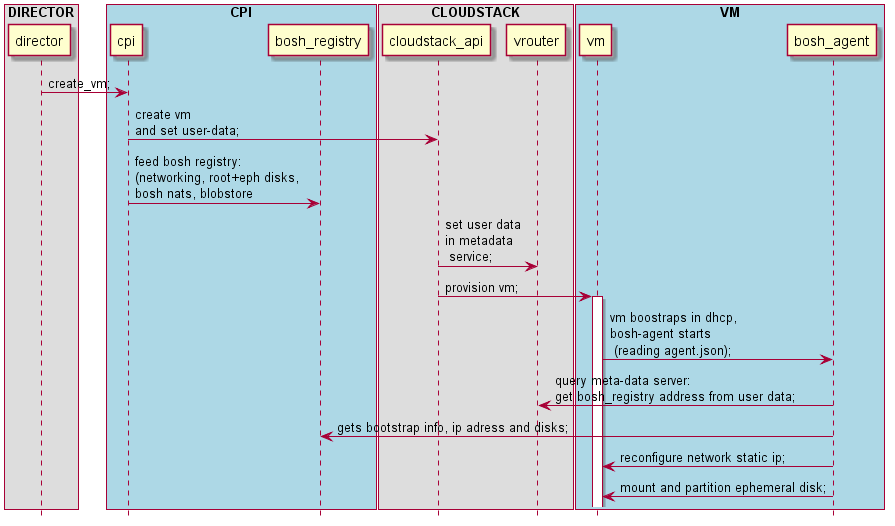
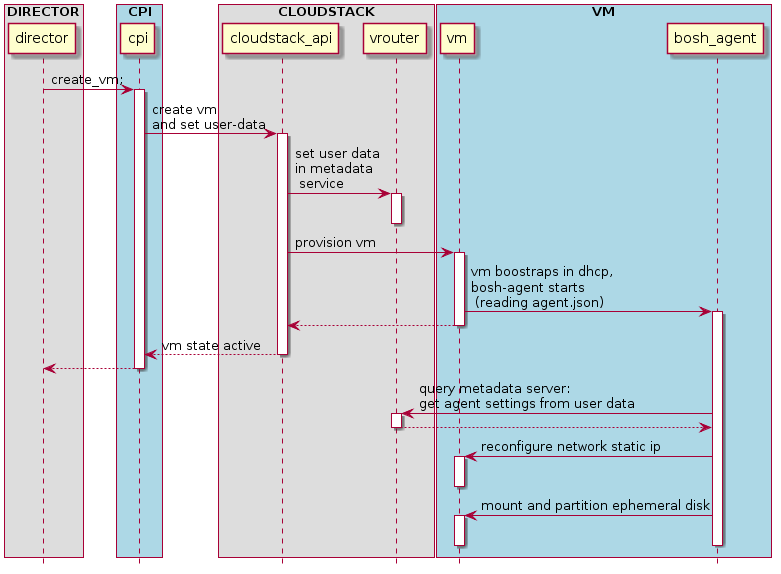
Update agent-cpi-interactions
* Update to CPI API V2

Fixes: #616

[#162326706](https://www.pivotaltracker.com/story/show/162326706)

diff --git a/content/agent-cpi-interactions.md b/content/agent-cpi-interactions.md
@@ -3,10 +3,12 @@ Here is an overview of the interactions between the CPI and the Agent on CloudSt
 * The CPI drives the IaaS and the Agent.
 * The Agent is a versatile process which configures the OS to leverage IaaS-provisioned resources (network interfaces, disks, etc.), and perform other BOSH tasks (job compilation, job instantiation, etc.)
 * The CPI asks the IaaS to instantiate VM template, VMs, volumes and possibly other constructs (floating IPs, security groups, connect LBs, etc.)
-* The Agent is initially driven by the CPI through the bosh-registry, and then by the Director through NATS-based messaging. The registry provides Director-side metadata to the Agent.
+* The director-to-agent communication happens through NATS-based messaging.
+* The initial configuration of the agent is done via the metadata server.
 
 !!! note
-    If the CPI, Director and stemcell all support API version V2, [then the use of Bosh registry will be avoided](cpi-api-v2.md#reference-table-based-on-each-component-version). In this case, the agent will be initialized with enough information to configure the VM and all communication with the director is performed through NATS server.
+    If either of CPI, Director or stemcell does not support [CPI API  version 2](cpi-api-v2.md#reference-table-based-on-each-component-version),
+    the BOSH registry is used to provide the information to configure the VM.
 
 ![image](images/cpi-interactions-overview.png)
 
@@ -31,7 +33,6 @@ Render it online http://plantuml.com/plantuml/ or from a private plantuml instan
   end box
   box "CPI" #LightBlue
 	participant cpi
-    participant bosh_registry
   end box
   box "CLOUDSTACK"
 	participant cloudstack_api
@@ -45,30 +46,52 @@ Render it online http://plantuml.com/plantuml/ or from a private plantuml instan
 
 
   director -> cpi : create_vm;
-  cpi -> cloudstack_api : create vm \nand set user-data;
-  cpi -> bosh_registry : feed bosh registry: \n(networking, root+eph disks, \nbosh nats, blobstore
-  cloudstack_api -> vrouter : set user data\nin metadata\n service;
-  cloudstack_api -> vm : provision vm;
-  activate vm
-  vm -> bosh_agent : vm boostraps in dhcp,\nbosh-agent starts \n (reading agent.json);
-  bosh_agent -> vrouter : query metadata server:\nget bosh_registry address from user data;
-  bosh_agent -> bosh_registry : gets bootstrap info, ip adress and disks;
-  bosh_agent -> vm : reconfigure network static ip;
-  bosh_agent -> vm : mount and partition ephemeral disk;
+  activate cpi
+  cpi -> cloudstack_api : create vm \nand set user-data
+  activate cloudstack_api
 
+  cloudstack_api -> vrouter : set user data\nin metadata\n service
+  activate vrouter
+  deactivate vrouter
+  cloudstack_api -> vm : provision vm
+
+  activate vm
+  vm -> bosh_agent : vm boostraps in dhcp,\nbosh-agent starts \n (reading agent.json)
+  activate bosh_agent
+  cloudstack_api <- vm
+  deactivate vm
+  cpi <- cloudstack_api : vm state active
+  deactivate cloudstack_api
+
+  director <- cpi
+  deactivate cpi
+
+  bosh_agent -> vrouter : query metadata server:\nget agent settings from user data
+  activate vrouter
+  bosh_agent <- vrouter
+  deactivate vrouter
+  bosh_agent -> vm : reconfigure network static ip
+  activate vm
+  deactivate vm
+  bosh_agent -> vm : mount and partition ephemeral disk
+  activate vm
+  deactivate vm
+
+
+  deactivate bosh_agent
 
   hide footbox
 @enduml
 -->
 
 ---
-## Agent config file formats {: #agent-config }
+## Agent settings {: #agent-settings}
 
 This section details the configuration and protocols supported by the Agent.
 
 [VM Configuration Locations](vm-config.html#agent) provides a list of Agent configuration files and their roles.
 
-----
+---
 ### `agent.json` file {: #agent-json }
 
 `/var/vcap/bosh/agent.json`: Start up settings for the Agent that describe how to find bootstrap settings, and disable certain Agent functionality.
@@ -144,8 +167,124 @@ Sample `agent.json` which configures the agent to read from a config drive. See 
 }
 ```
 
+---
+### Agent settings format {: #agent-settings-format}
+
+The current state of the JSON settings format supported by the Agent is documented in [settings_test.go](https://github.com/cloudfoundry/bosh-agent/blob/master/settings/settings_test.go) as well as in [settings_test.go](https://github.com/cloudfoundry/bosh-agent/blob/master/settings/settings.go).
+
+Some of the properties (for example `blobstore` or `mbus` URLs) can be specified in multiple
+places. In general the properties in the `env` section have precedence over the properties defined on
+root level.
+
+Sample settings JSON:
+
+```json
+{
+  "agent_id": "agent-xxxxx",
+  "blobstore": { },
+  "disks": {
+    "ephemeral": "/dev/sdb",
+    "persistent": {},
+    "raw_ephemeral": null,
+    "system": "/dev/xvda"
+  },
+  "env": {
+    "bosh": {
+      "authorized_keys": [
+        "--AUTHORIZED KEY--"
+      ],
+      "blobstores": [
+        {
+          "provider": "local",
+          "options": {
+            "endpoint": "http://xx.xx.xx.xx:25250",
+            "password": "password",
+            "blobstore_path": "/var/vcap/micro_bosh/data/cache",
+            "user": "agent"
+          }
+        }
+      ],
+      "ipv6": {
+        "enable": false
+      },
+      "keep_root_password": true,
+      "mbus": {
+        "cert": {
+          "ca": "--MBUS CA--",
+          "certificate": "--MBUS CERT--",
+          "private_key": "--MBUS PRIVATE KEY--"
+        },
+        "urls": [
+          "nats://nats:nats-password@yy.yy.yyy:4222"
+        ]
+      },
+      "ntp": [],
+      "parallel": 1,
+      "password": "*",
+      "remove_dev_tools": false,
+      "remove_static_libraries": false,
+      "swap_size": 8192
+    },
+    "persistent_disk_fs": "",
+    "persistent_disk_mount_options": null,
+    "persistent_disk_partitioner": ""
+  },
+  "mbus": "nats://nats:nats-password@yy.yy.yyy:4222",
+  "networks": {
+    "default": {
+      "default": [
+        "dns",
+        "gateway"
+      ],
+      "dns": [
+        "8.8.8.8"
+      ],
+      "gateway": "10.0.1.1",
+      "ip": "10.0.1.6",
+      "mac": "aa:aa:aa:aa:aa:aa",
+      "netmask": "255.255.255.0",
+      "preconfigured": false,
+      "resolved": false,
+      "type": "manual",
+      "use_dhcp": true
+    }
+  },
+  "ntp": [],
+  "vm": {
+    "name": "vm-yyyy"
+  }
+}
+```
+
 ----
-### Metadata server {: #metadata }
+### settings.json file {: #settings-json }
+
+`/var/vcap/bosh/settings.json`: Local copy of the bootstrap settings used by the Agent to configure network and system properties for the VM. They are refreshed every time Agent is restarted.
+
+The `settings.json` format is the same as the settings format initially transferred to the agent.
+
+---
+### Agent settings sources {: #agent-settings-sources}
+
+Regardless of the source of the agent settings, the JSON document is the same. 
+The agent settings as described above are transferred to the agent
+using one of the following ways:
+
+* Metadata server is used if all involved components (director, CPI, agent) support CPI API V2.
+* If one of the components does not yet support CPI API V2, the agent reads its
+  settings from the registry.
+
+!!! tip
+    See [CPI API V2](cpi-api-v2.md) and [CPI V2 Migration Guide](v2-migration-guide.md) for more information on how the CPI, Agent, and Director behave in a registry-less environment.
+
+---
+### CPI API V1 {: #cpi-api-v1}
+
+This section describes the agent interactions prior to
+CPI API V2
+
+----
+##### Metadata Server {: #metadata }
 
 The metadata server initially serves the registry URL and DNS server list.
 
@@ -162,10 +301,7 @@ Following is a sample content of the user-data part of the HTTP metadata
 The supported format of the metadata server by the bosh-agent is documented in [UserDataContentsType](https://godoc.org/github.com/cloudfoundry/bosh-agent/infrastructure#UserDataContentsType) and [http\_metadata\_service_test.go](https://github.com/cloudfoundry/bosh-agent/blob/1dca3244702c18bf2c36483c529d4e7b3fb92b2e/infrastructure/http_metadata_service_test.go), along with the expected behavior of the bosh agent when reading this config.
 
 ----
-### Registry {: #registry }
-
-!!! tip
-    As of CPI V2, the registry may be avoided if the stemcell API version is sufficient. See [CPI API V2](cpi-api-v2.md) and [CPI V2 Migration Guide](v2-migration-guide.md) for more information on how the CPI, Agent, and Director behave in a registry-less environment.
+##### Registry {: #registry }
 
 The registry provides bosh-side metadata to the bosh agent.
 
@@ -174,7 +310,7 @@ From the [Warden CPI documentation](https://github.com/cppforlife/bosh-warden-cp
 * The registry is used by the CPI to pass data to the Agent. The registry is started on a server specified by registry properties.
 * If SSH tunnel options are provided, a reverse ssh tunnel is created from the MicroBOSH VM to the registry, making the registry available to the agent on remote machine.
 
-#### Registry HTTP protocol {: #registry-protocol }
+###### Registry HTTP protocol {: #registry-protocol }
 
 The Agent expects to communicate with the bosh registry over a REST API documented in [api\_controller\_spec.rb](https://github.com/cloudfoundry/bosh/blob/2f73281f1a2a155ee807e7c0c9b8187c5a742f78/bosh-registry/spec/unit/bosh/registry/api_controller_spec.rb)
 
@@ -182,55 +318,3 @@ Reference registry client and servers implementations are available in:
 
 * go-lang through [frodenas/bosh-registry](https://github.com/frodenas/bosh-registry)
 * java through [cloudfoundry-community/bosh-cloudstack-cpi-core](https://github.com/cloudfoundry-community/bosh-cloudstack-cpi-core/tree/44d14a5f184d2d5e8f1f2fcd6344e734d3344673/src/main/java/com/orange/oss/cloudfoundry/cscpi/boshregistry)
-
-#### Registry settings format {: #registry-format }
-
-The JSON payload of the settings stored in the registry, and its format supported by the Agent are documented in [settings_test.go](https://github.com/cloudfoundry/bosh-agent/blob/ebf9a36dfddf783ffae5ae3748787d259a29374a/settings/settings_test.go)
-
-Sample registry content:
-
-```json
-{
-  "agent_id": "agent-xxxxxx",
-  "blobstore": {
-    "provider": "local",
-    "options": {
-      "endpoint": "http://xx.xx.xx.xx:25250",
-      "password": "password",
-      "blobstore_path": "/var/vcap/micro_bosh/data/cache",
-      "user": "agent"
-    }
-  },
-  "disks": {
-    "system": "/dev/xvda",
-    "ephemeral": "/dev/sdb",
-    "persistent": {}
-  },
-  "env": {},
-  "networks": {
-    "default": {
-      "type": "manual",
-      "ip": "10.234.228.158",
-      "netmask": "255.255.255.192",
-      "cloud_properties": {"name": "3112 - preprod - back"},
-      "dns": [
-        "10.234.50.180",
-        "10.234.71.124"
-      ],
-      "gateway": "10.234.228.129",
-      "mac": null
-    }
-  },
-  "ntp": [],
-  "mbus": "nats://nats:nats-password@yy.yy.yyy:4222",
-  "vm": {"name": "vm-yyyy"},
-  "trusted_certs": null
-}
-```
-
-----
-### settings.json file {: #settings_json }
-
-`/var/vcap/bosh/settings.json`: Local copy of the bootstrap settings used by the Agent to configure network and system properties for the VM. They are refreshed every time Agent is restarted.
-
-The `settings.json` payload format is the same as the settings format initially returned by the registry.
